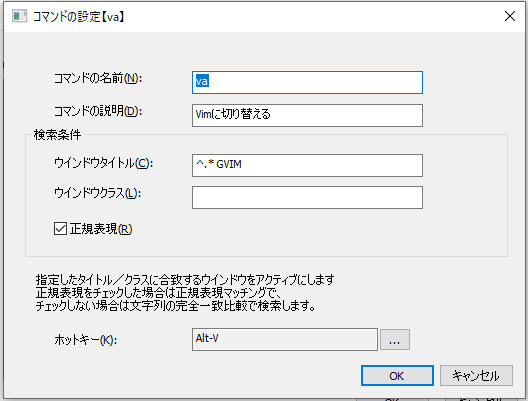
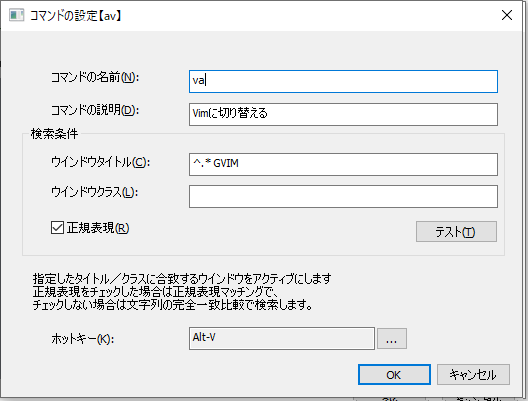
ドキュメント更新

diff --git a/doc/help.md b/doc/help.md
@@ -597,6 +597,29 @@ Soyokaze配置ディレクトリ/
 - `ホットキー`
   - コマンドを呼び出すキーバインドを設定できる。設定したキーを押下するとコマンドを実行できるようになる。
 
+### ウインドウ切替コマンドの登録・編集
+
+![](../image/edit-windowactivatecommand.png)
+
+- `コマンドの名前`
+  - 入力画面からコマンドを実行するためのキーワード
+- `コマンドの説明`
+  - コメント表示欄に記載される文字列。
+- `ウインドウタイトル`
+  - 検索対象とするウインドウのタイトルを指定する。  
+空欄にした場合は`ウインドウクラス`のみで検索を行う
+- `ウインドウクラス`
+  - 検索対象とするウインドウクラスを指定する。  
+空欄にした場合は`ウインドウタイトル`のみで検索を行う
+  - `ウインドウタイトル`と`ウインドウクラス`のどちらかを指定する必要がある
+- `正規表現`
+  - チェックした場合、`ウインドウタイトル`と`ウインドウクラス`に入力した文字列を正規表現として扱う
+  - チェックしない場合、`ウインドウタイトル`と`ウインドウクラス`に入力した文字列の完全一致で探す
+- `テスト`
+  - `ウインドウタイトル` `ウインドウクラス` `正規表現` に入力した内容に基づいてウインドウを探す。  
+見つかった場合はそのウインドウのタスクバーが点滅する。
+- `ホットキー`
+  - コマンドを呼び出すキーバインドを設定できる。設定したキーを押下するとコマンドを実行できるようになる。
 
 ## タスクトレイ
 
